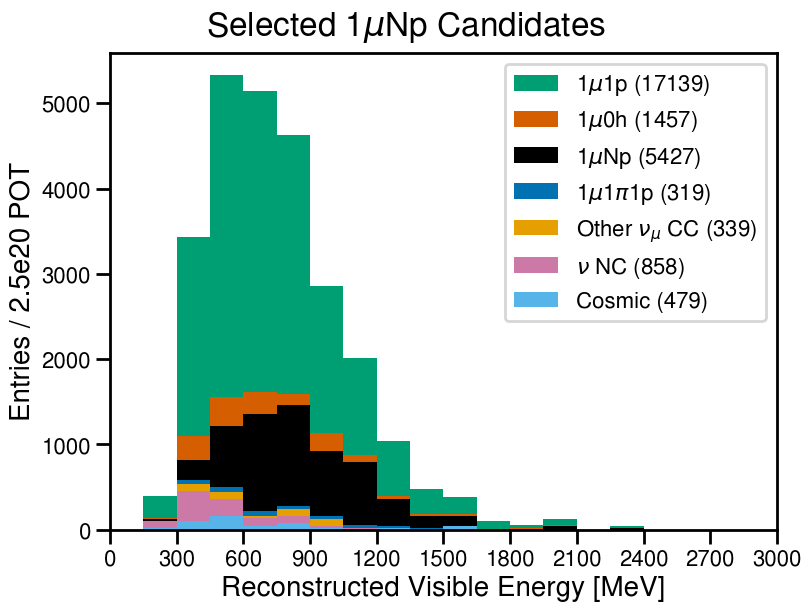
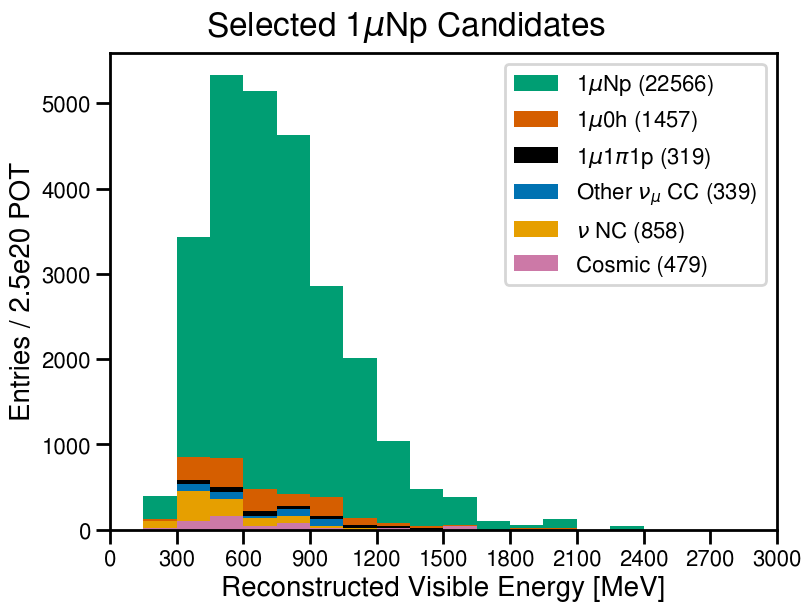
Added "merging" of different categories to 1D stack plot

diff --git a/plotting/plot_funcs.py b/plotting/plot_funcs.py
@@ -150,11 +150,20 @@ def plot_histogram_1d(rf, desc):
         cs = [f'C{i}' for i in range(len(contents))]
     else:
         contents, xedges, yedges = load_histograms(rf, desc.var)
-        contents = [contents[c,:] for c in desc.categories.keys()][::-1]
-        centers = [(yedges[1:] + yedges[:-1]) / 2.0 for c in contents][::-1]
-        edges = [yedges for c in contents][::-1]
-        labels = list(desc.categories.values())[::-1]
+        contents = [contents[c,:] for c in desc.categories.keys()]
+        centers = [(yedges[1:] + yedges[:-1]) / 2.0 for c in contents]
+        edges = [yedges for c in contents]
+        labels = list(desc.categories.values())
+        if hasattr(desc, 'merge'):
+            contents = [np.sum(np.array(contents)[m,:], axis=0) for m in desc.merge]
+            centers = [centers[m[0]] for m in desc.merge]
+            edges = [edges[m[0]] for m in desc.merge]
+            labels = [labels[m[0]] for m in desc.merge]
         cs = [f'C{i}' for i in range(len(contents))][::-1]
+        contents = contents[::-1]
+        centers = centers[::-1]
+        edges = edges[::-1]
+        labels = labels[::-1]
     ax.hist(centers, weights=contents, range=(edges[0][0], edges[0][-1]), bins=edges[0], label=labels, color=cs, **desc.plot_kwargs)
     ax.set_xlim(edges[0][0], edges[0][-1])
     ax.set_xlabel(desc.xlabel)
